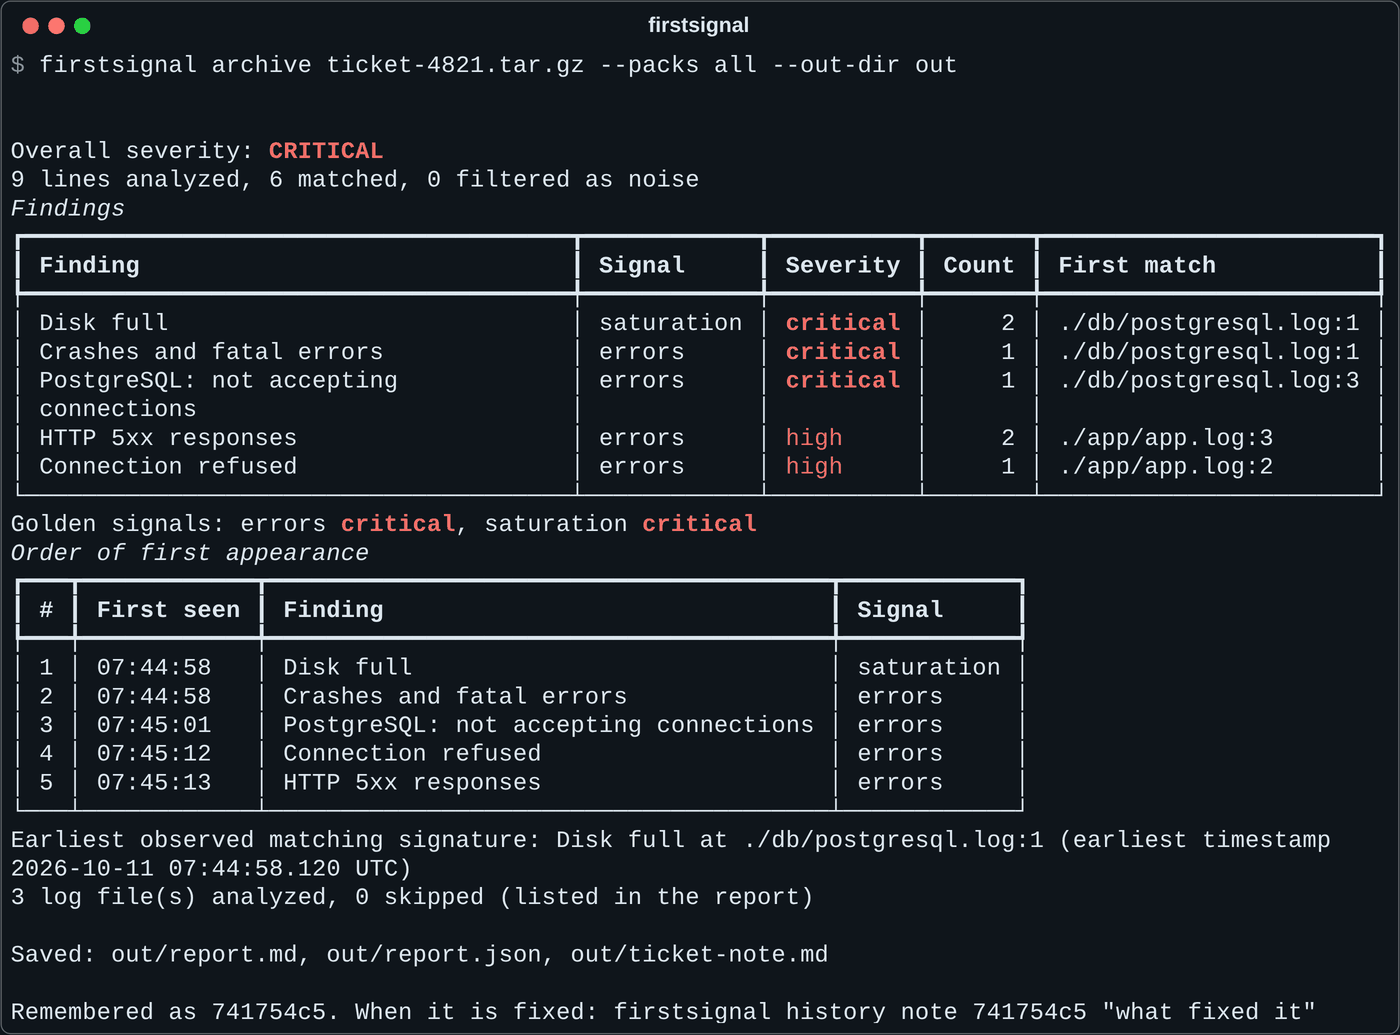
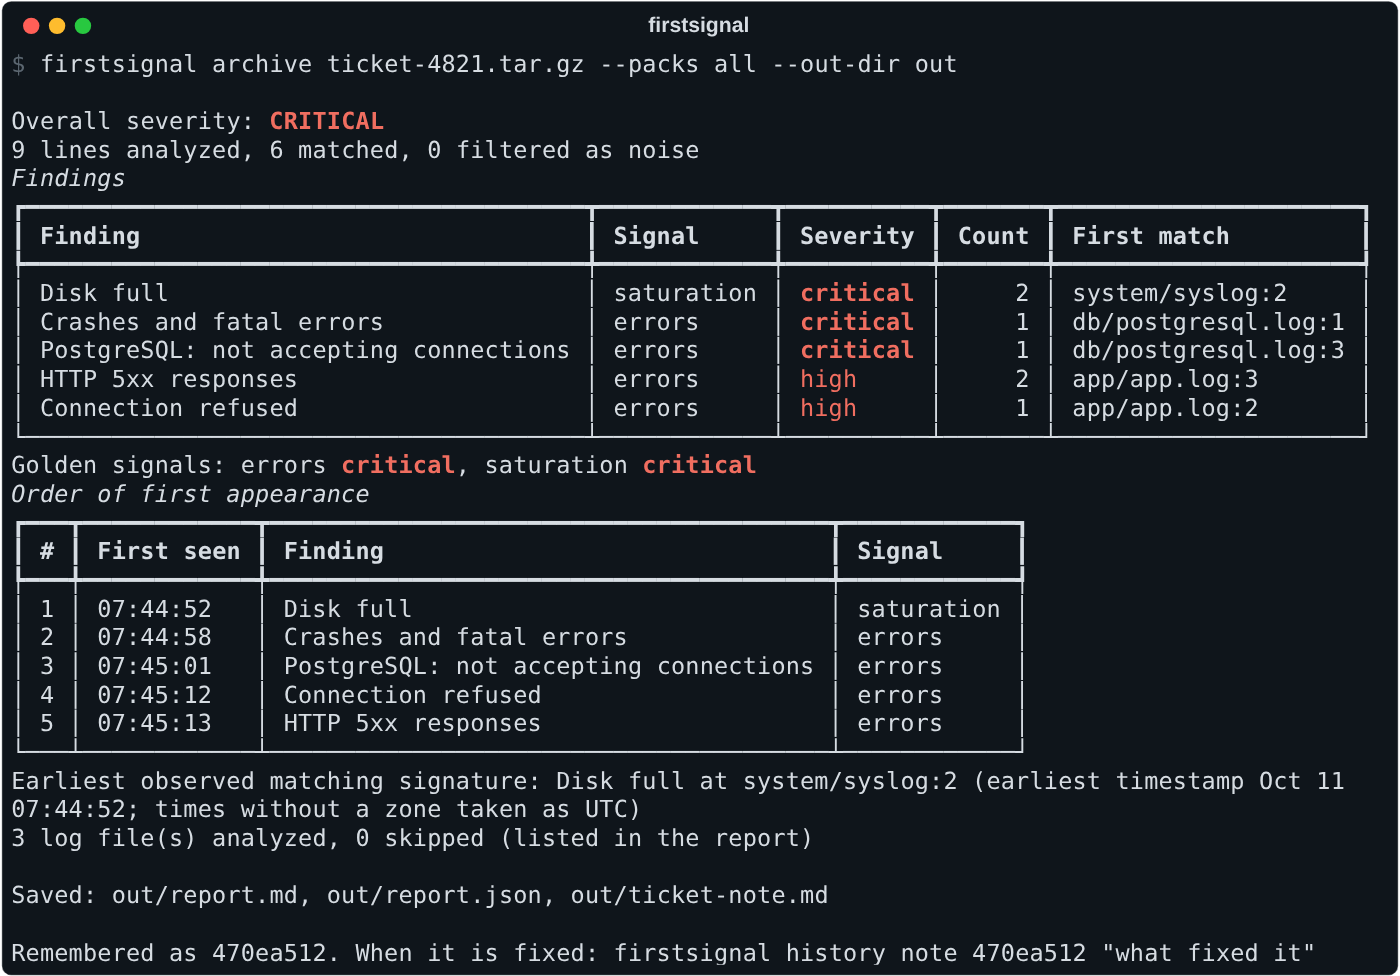
Cite each finding's earliest occurrence across files; review fixes for #79
- A finding's file:line, earliest time and "first seen" now come from its
  earliest occurrence. Comparing a zone-less time (syslog, nginx) with a
  zoned one (PostgreSQL UTC) failed silently, so the first file read was
  cited; the support-bundle screenshot from #79 showed exactly that
- Corpus: bundle cases record where the first finding's evidence is, and
  the first finding only counts as right when that line is cited
- Regenerated the support-bundle screenshot from the fixed code
- CI example: --no-history, chmod 600 on the kubeconfig, current wording
  on masking
- CHANGELOG: #79's docs entries move into 0.3.0, which is not yet
  published

Claude-Session: https://claude.ai/code/session_01KG3aGLY9LQWym37dyYQBod

Changed region(s): [[0.0, 0.0, 1.0, 1.0], [0.5529, 0.0615, 0.6757, 0.0922], [0.645, 0.4303, 0.6757, 0.4611]]

diff --git a/scripts/corpus.py b/scripts/corpus.py
@@ -37,6 +37,8 @@ class Result:
     first: str | None
     severity: str
     leaks: list[str] = field(default_factory=list)
+    first_location: str | None = None          # where the first finding's evidence is (archive cases)
+    truth_location: str | None = None
 
     @property
     def true_positives(self) -> set[str]:
@@ -52,10 +54,14 @@ class Result:
 
     @property
     def first_ok(self) -> bool:
-        return self.first == self.truth_first
+        located = self.truth_location is None or self.first_location == self.truth_location
+        return self.first == self.truth_first and located
 
     def snapshot(self) -> dict:
-        return {"findings": dict(sorted(self.found.items())), "first": self.first, "severity": self.severity}
+        snap = {"findings": dict(sorted(self.found.items())), "first": self.first, "severity": self.severity}
+        if self.first_location:
+            snap["first_location"] = self.first_location
+        return snap
 
 
 def cases(corpus: Path) -> list[Path]:
@@ -83,14 +89,18 @@ def run_case(case_dir: Path, workdir: Path) -> Result:
     text = out.getvalue()
     report = json.loads(text)
     order = report["order_of_first_appearance"]
+    first = order[0] if order else None
+    location = report["findings"][first].get("first_location") if first else None
     return Result(
         name=case_dir.name,
         truth=set(meta["truth"]["findings"]),
         truth_first=meta["truth"]["first"],
         found={k: v["count"] for k, v in report["findings"].items()},
-        first=order[0] if order else None,
+        first=first,
         severity=report["severity"],
         leaks=[s for s in meta.get("must_not_leak", []) if s in text],
+        first_location=location,
+        truth_location=meta["truth"].get("first_location"),
     )
 
 
@@ -117,7 +127,12 @@ def summary(results: list[Result]) -> dict:
 def report(results: list[Result]) -> str:
     lines = ["| Case | Expected | Found | False positives | Missed | First finding |", "|---|---:|---:|---|---|---|"]
     for r in results:
-        first = "✓" if r.first_ok else f"✗ `{r.first}` (expected `{r.truth_first}`)"
+        if r.first_ok:
+            first = "✓"
+        elif r.first != r.truth_first:
+            first = f"✗ `{r.first}` (expected `{r.truth_first}`)"
+        else:
+            first = f"✗ cites `{r.first_location}` (expected `{r.truth_location}`)"
         lines.append(f"| {r.name} | {len(r.truth)} | {len(r.true_positives)} "
                      f"| {', '.join(f'`{k}`' for k in sorted(r.false_positives)) or '–'} "
                      f"| {', '.join(f'`{k}`' for k in sorted(r.misses)) or '–'} | {first} |")

diff --git a/firstsignal/analyzer.py b/firstsignal/analyzer.py
@@ -40,7 +40,8 @@ class Finding:
     first_seen: str | None = None
     last_seen: str | None = None
     examples: list[str] = field(default_factory=list)
-    # set only when analyze(track_locations=True): "file:line" for the first match and each example
+    # set only when analyze(track_locations=True): "file:line" of the earliest match (by timestamp when
+    # there is one, else the first in the text) and of each example
     first_location: str | None = None
     locations: list[str] = field(default_factory=list)
     earliest: str | None = None   # the earliest timestamp among all matches, not just the first line
@@ -158,13 +159,13 @@ def analyze(
                     f.locations.append(where)
             when = parse_ts(ev.timestamp)
             if when is not None:
+                when = _utc(when)[0]          # same rule as time_order: no zone means UTC
                 prev = earliest.get(pat.key)
-                try:
-                    if prev is None or when < prev:
-                        earliest[pat.key] = when
-                        f.earliest = ev.timestamp
-                except TypeError:  # naive and aware timestamps cannot be compared
-                    pass
+                if prev is None or when < prev:
+                    earliest[pat.key] = when
+                    f.earliest = ev.timestamp
+                    if track_locations:
+                        f.first_location = where   # cite the earliest occurrence, not the first file read
         matched_lines += n_lines if hit else 0
         if hit or LEVEL_RANK[ev.level] >= LEVEL_RANK["unknown"]:
             repeats[normalize_line(redactor(ev.text))[:240]] += 1
@@ -185,6 +186,9 @@ def analyze(
     for done in grouper.flush():
         handle(done)
 
+    for f in findings.values():
+        if f.earliest:
+            f.first_seen = f.earliest   # first in time, which is what every view shows as "first seen"
     order = sorted(findings, key=lambda k: findings[k].first_index)
     ranked = sorted(findings.values(), key=lambda f: (-SEVERITY_RANK[f.severity], -f.count))
     signals = {

diff --git a/tests/test_archive.py b/tests/test_archive.py
@@ -187,3 +187,17 @@ def test_corrupt_nested_archive_is_skipped_not_fatal(tmp_path):
 def test_more_unsafe_names(tmp_path, name):
     res = _read(_zip(tmp_path / "b.zip", {"ok.log": "ERROR x\n", name: "ERROR y\n"}))
     assert [f.name for f in res.files] == ["ok.log"]
+
+
+def test_finding_cites_its_earliest_occurrence_across_time_zone_styles(tmp_path):
+    # syslog has no zone, PostgreSQL says UTC: the comparison must still work, and the citation
+    # must point at the earlier line even though its file is read second
+    path = _zip(tmp_path / "b.zip", {
+        "db/postgresql.log": "2026-10-11 07:44:58.120 UTC [811] PANIC:  could not write to file: No space left on device\n",
+        "system/syslog": "Oct 11 07:44:52 db01 postgres[811]: ERROR: could not extend file: No space left on device\n",
+    })
+    out = tmp_path / "out"
+    cli.run(["archive", path, "--out-dir", str(out), "--no-history", "-q"])
+    f = json.loads((out / "report.json").read_text(encoding="utf-8"))["findings"]["disk_full"]
+    assert f["first_location"] == "system/syslog:1"
+    assert f["earliest"] == "Oct 11 07:44:52"

diff --git a/CHANGELOG.md b/CHANGELOG.md
@@ -7,10 +7,6 @@ and this project adheres to [Semantic Versioning](https://semver.org/spec/v2.0.0
 
 ## [Unreleased]
 
-### Documentation
-- README screenshots of real output: the terminal report with a "Seen before" match, a support-bundle run, the HTML report, and a timeline of the first signal against the loudest one (`docs/img/`)
-- `examples/ci/post-deploy-triage.yml`: a GitHub Actions workflow that checks the new pods' logs after each deploy
-
 ## [0.3.0] - 2026-11-16
 
 Support bundles, stack traces, stricter redaction and published accuracy. Reports now say "earliest observed matching signature" and never claim a root cause outside the labelled AI hypothesis.
@@ -20,6 +16,9 @@ Support bundles, stack traces, stricter redaction and published accuracy. Report
 - CI runs the tests inside Red Hat UBI 9, Rocky Linux 8 and 9, and Fedora, as a non-root user, with Python 3.11 from `dnf` on the RHEL family
 - README: install steps for RHEL, Rocky, AlmaLinux and CentOS Stream
 
+### Fixed (support bundles)
+- A finding's `file:line` and earliest time now come from its earliest occurrence across files. When one file's times had no zone (syslog, nginx) and another's did (PostgreSQL `UTC`), the comparison failed silently and the first file read was cited instead. "First seen" in the terminal, Markdown, JSON and HTML report is now that earliest time too
+
 ### Fixed (platforms)
 - `journal` without permission to read the system journal: journalctl exits 0 with no entries, which was reported as a clean run. It is now an error that says to use `sudo` or join the `systemd-journal` group
 - An unreadable log file (such as `/var/log/messages` on RHEL) now says to try `sudo`
@@ -28,6 +27,8 @@ Support bundles, stack traces, stricter redaction and published accuracy. Report
 - The former name is gone: the `incopilot` command, `INCOPILOT_*` environment variables, `incopilot.toml` and the `~/.incopilot` history fallback. Use `firstsignal`, `FIRSTSIGNAL_*`, `firstsignal.toml` and `~/.firstsignal`
 
 ### Documentation
+- README screenshots of real output: the terminal report with a "Seen before" match, a support-bundle run, the HTML report, and a timeline of the first signal against the loudest one (`docs/img/`)
+- `examples/ci/post-deploy-triage.yml`: a GitHub Actions workflow that checks the new pods' logs after each deploy
 - `docs/PILOT.md`: a free 30-day pilot: rules, a five-minute start, and a feedback form
 - README, ROADMAP, product plan, SECURITY and CONTRIBUTING brought up to date; the website shows the support-bundle source
 

diff --git a/README.md b/README.md
@@ -146,8 +146,7 @@ firstsignal archive ticket-4821.zip
 
 `archive` is for log bundles customers attach to support tickets. It reads every log file inside without extracting anything, and tells you where to look:
 
-<p align="center"><img src="https://raw.githubusercontent.com/AutoShiftOps/firstsignal/main/docs/img/terminal-support-bundle.png" alt="firstsignal archive on a support bundle: disk full in the PostgreSQL log came first, then the database stopped accepting connections, then the app saw refused connections and returned 5xx; every finding cites file and line" width="700"></p>
-
+<p align="center"><img src="https://raw.githubusercontent.com/AutoShiftOps/firstsignal/main/docs/img/terminal-support-bundle.png" alt="firstsignal archive on a support bundle: disk full, first seen in syslog, came first; then PostgreSQL crashed and stopped accepting connections, and the app saw refused connections and returned 5xx; every finding cites file and line" width="700"></p>
 
 - **Every finding cites `file:line`**, so you can quote the evidence back. Line numbers stay right even when only the end of a large file is read.
 - **Findings are ordered by time across files**, not by file order. ISO, nginx, syslog, Apache access log and JSON epoch times are understood. Times without a zone are taken as UTC, and the report says so; syslog times carry no year, so the current year is assumed.

diff --git a/tests/corpus/README.md b/tests/corpus/README.md
@@ -18,6 +18,8 @@ Labelled log samples that firstsignal is scored against. Each case is a folder:
   a traceback that was logged and handled.
 - **first**: the finding an engineer would start from, using timestamps across files. When two
   findings share a second, it is the one that caused the other.
+- **first_location** (bundle cases): the `file:line` of that finding's earliest evidence. The first
+  finding only counts as right when the report cites this line.
 
 `snapshot` is what firstsignal reports today. Accuracy compares `snapshot` with `truth`;
 `tests/test_corpus.py` fails whenever a snapshot changes, so every change in results is reviewed.
